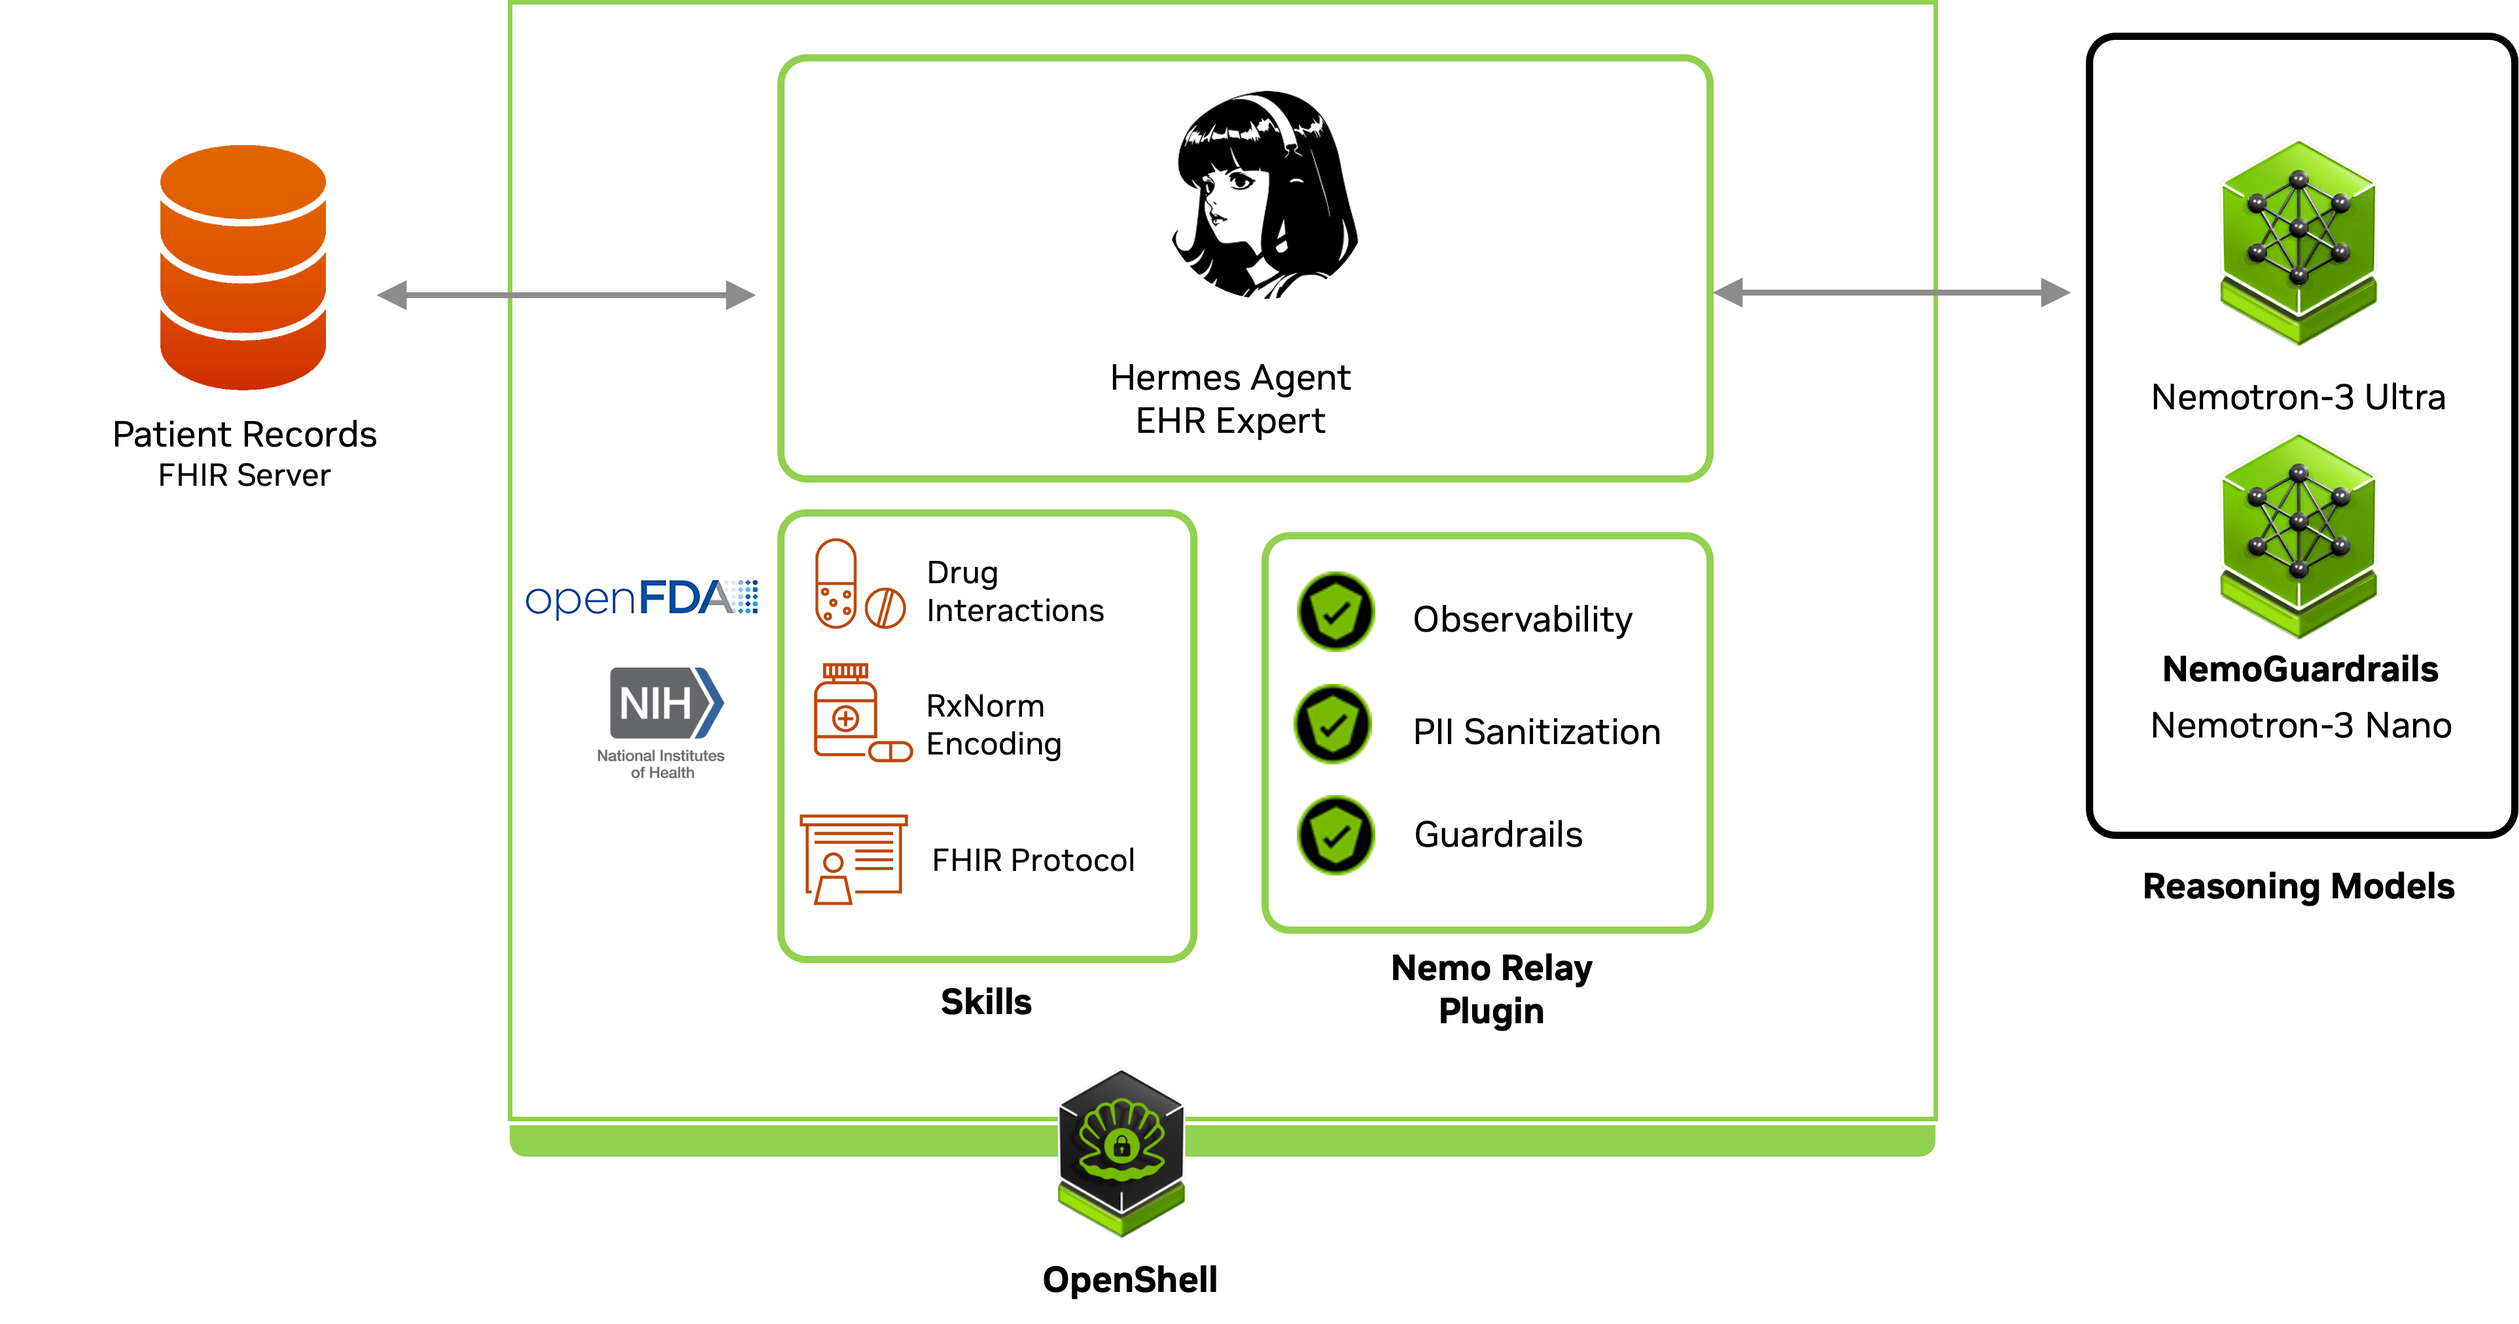
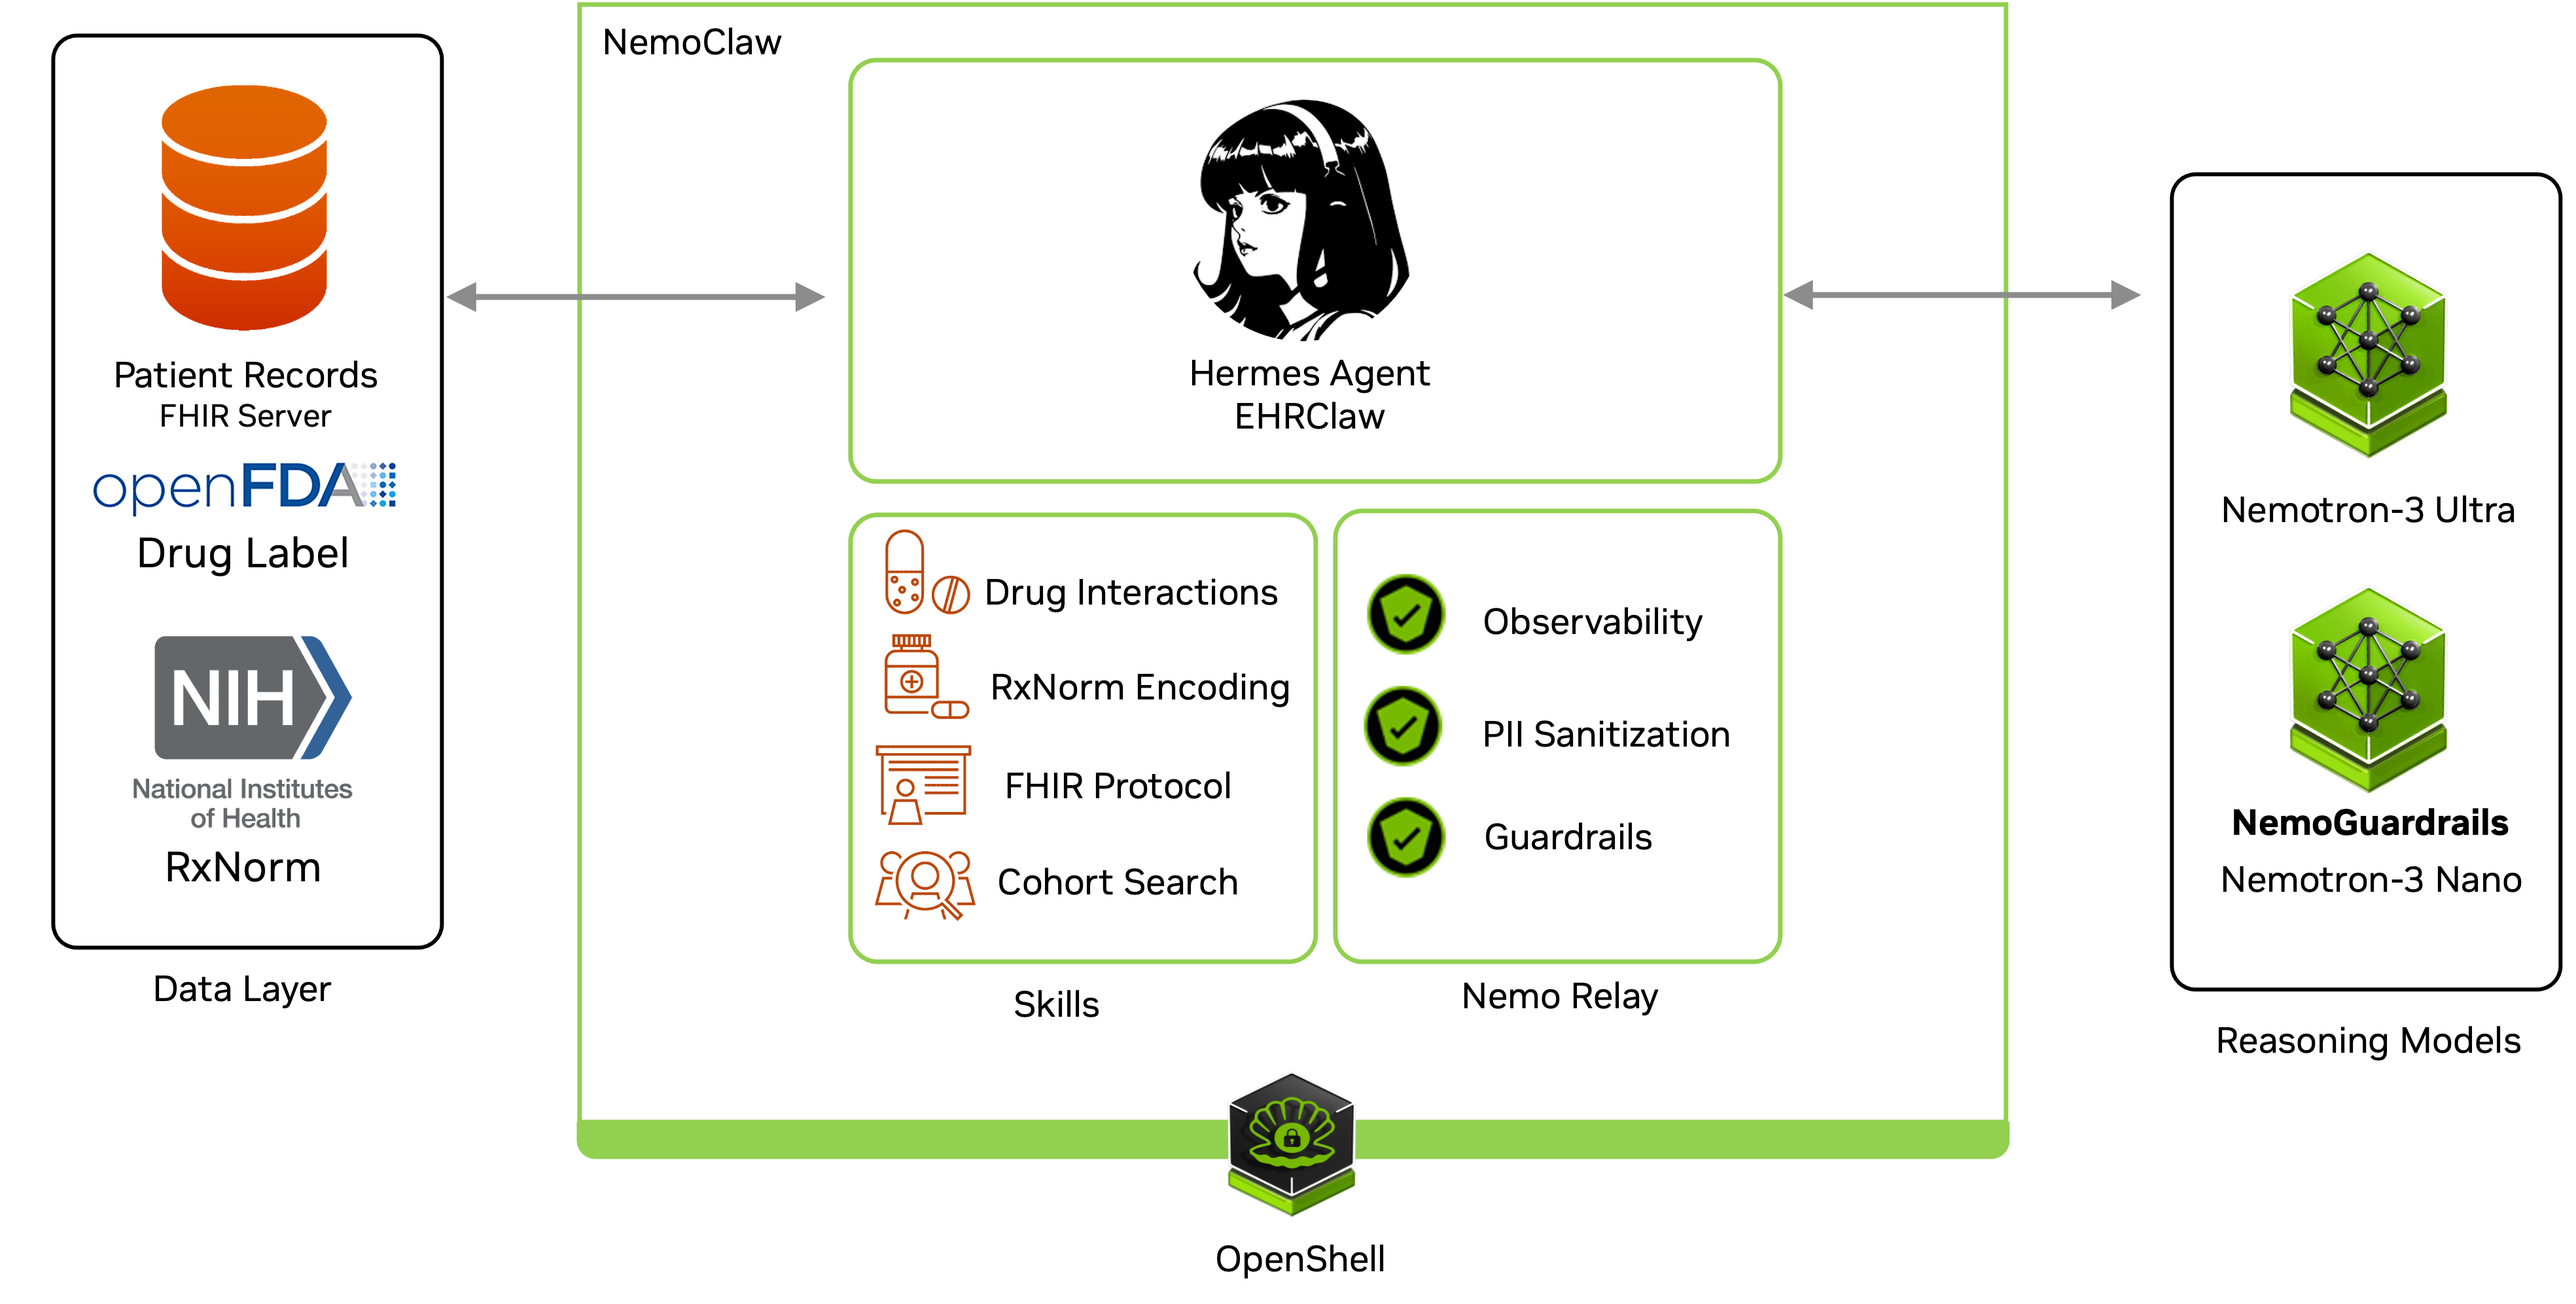
docs: add clinical-trial-cohort-prescreener skill documentation

diff --git a/agents/ehr-expert/skills/clinical-trial-cohort-prescreener/SKILL.md b/agents/ehr-expert/skills/clinical-trial-cohort-prescreener/SKILL.md
@@ -1,0 +1,352 @@
+---
+name: clinical-trial-cohort-prescreener
+description: Prescreen patients in the connected FHIR dataset against one clinical trial's inclusion and exclusion criteria. Use when the user supplies clinical trial text or eligibility criteria and asks which patients are potential matches, or requests clinical-trial eligibility prescreening or cohort screening. Produces potential-match results with evidence, never a definitive eligibility decision.
+---
+
+# Clinical Trial Cohort Prescreener
+
+## When to Use
+This is a clinical-trial pre-screening workflow.
+
+Use this skill when the user provides the text of one clinical trial and asks which patients in the connected FHIR dataset may match it.
+
+Never describe a patient as definitively eligible.
+Use the terms:
+
+- potential match
+- possible match requiring more data
+- not a match based on available evidence
+
+Final eligibility must be confirmed by the trial research team.
+
+## Expected Input
+Required:
+- The trial's inclusion and exclusion criteria.
+
+Optional:
+- The clinical trial text.
+- A cohort description.
+- A maximum number of patients to screen.
+- An as-of date.
+
+When no as-of date is supplied, use all data currently available through the connected FHIR server.
+
+
+When no cohort limit is supplied:
+1. Derive a coarse candidate cohort using the trial's target condition, age range, and administrative sex where possible.
+2. Screen at most 100 candidate patients.
+3. Clearly state that the results cover a limited candidate cohort, not the entire FHIR population.
+
+## Additional skills required
+
+This skill does not query the FHIR server itself. Use the **`fhir-data-access`**
+skill for all reads, which covers:
+
+1. Searching or enumerating patients (including coarse filtering by
+   `birthdate`, `gender`, and condition `code`).
+2. Searching FHIR resources by patient.
+3. Reading individual FHIR resources when additional evidence is needed.
+
+Relevant resource types may include:
+- Patient
+- Condition
+- Observation
+- MedicationRequest
+- MedicationStatement
+- Procedure
+- Encounter
+- DiagnosticReport
+- CarePlan
+
+## Criteria
+
+Attempt direct evaluation of criteria involving:
+
+- Age.
+- Administrative sex.
+- Presence or absence of coded conditions.
+- Numeric laboratory values.
+- Laboratory date windows.
+- Presence of medications.
+- Presence of procedures.
+- Encounter history.
+- Simple date relationships.
+- Explicit minimum or maximum thresholds.
+
+Only compare numeric values when the patient result and trial criterion
+use the same unit, or when an available tool performs a reliable unit
+conversion.
+
+Mark the criterion as UNKNOWN when units cannot be compared safely.
+
+## Procedure
+
+### 1. Parse the trial
+
+Extract:
+
+- Trial title or identifier, when present.
+- Target disease or condition.
+- Minimum and maximum age.
+- Administrative sex restrictions.
+- Inclusion criteria.
+- Exclusion criteria.
+
+Split the criteria into atomic statements.
+
+Assign each criterion a stable identifier:
+
+- I1, I2, I3 for inclusion criteria.
+- E1, E2, E3 for exclusion criteria.
+
+Preserve the original criterion wording.
+
+### 2. Classify each criterion
+
+For every criterion, assign:
+
+- Type: inclusion or exclusion.
+- Domain: demographic, condition, observation, medication,
+  procedure, encounter, temporal, or clinical judgment.
+- Evaluation method:
+  - DIRECT
+  - UNKNOWN_WITH_CURRENT_DATA
+  - REQUIRES_REVIEW
+
+### 3. Build a coarse candidate cohort
+
+Before retrieving full patient charts, apply the cheapest reliable
+filters available.
+
+Prefer:
+
+1. Target condition.
+2. Age range.
+3. Administrative sex.
+4. Other simple coded conditions.
+
+Do not exclude a patient through approximate semantic matching alone.
+
+If a FHIR code or display is ambiguous, retain the patient and mark
+the relevant criterion for review.
+
+Report:
+
+- Number of patients considered.
+- Number remaining after coarse filtering.
+- Any limit applied to the candidate cohort.
+
+### 4. Evaluate each candidate
+
+Retrieve only the resources relevant to the criteria.
+
+For every criterion, produce one of these results:
+
+#### PASS
+
+Direct patient evidence supports eligibility for this criterion.
+
+Examples:
+
+- The inclusion criterion requires age 18 or older and the patient is 54.
+- The required diagnosis is present.
+- A laboratory result is within the specified range and time window.
+
+#### FAIL
+
+Direct patient evidence rules the patient out.
+
+Examples:
+
+- The patient is younger than the minimum age.
+- A required inclusion diagnosis is not present when the available data directly establishes a different diagnosis.
+- The patient has a documented exclusion condition.
+- A laboratory value falls outside an explicit permitted range.
+
+#### NO_EVIDENCE_OF_EXCLUSION
+
+Use only for exclusion criteria when no matching evidence was found.
+
+This does not prove that the exclusion is absent.
+
+Always use wording such as:
+
+"No evidence of this exclusion was found in the available FHIR record."
+
+Never rewrite this as:
+
+"The patient does not have this condition."
+
+#### UNKNOWN
+
+Use when:
+
+- Required information is missing.
+- Record coverage is insufficient.
+- The relevant resource was not found.
+- Units are incompatible.
+- The criterion cannot be resolved from available structured data.
+- The medication or condition timeline is incomplete.
+
+#### REVIEW
+
+Use when evidence exists but interpreting it requires clinical or
+protocol judgment.
+
+### 5. Attach evidence
+Every PASS or FAIL must reference supporting FHIR evidence.
+
+Include, when available:
+
+- Resource type.
+- Resource ID.
+- Clinical date.
+- Code and display.
+- Numeric value and unit.
+- Medication or procedure name.
+- A short explanation of why the evidence is relevant.
+
+Do not cite an entire chart when one or two resources support the result.
+
+UNKNOWN and NO_EVIDENCE_OF_EXCLUSION results should describe what was
+searched and what information was unavailable.
+
+### 6. Determine the overall prescreen result
+
+Assign one overall result.
+
+#### POTENTIAL_MATCH
+
+Use when:
+
+- No criterion is a definite FAIL.
+- All essential inclusion criteria are PASS.
+- Any unresolved exclusion criteria are explicitly reported as
+  NO_EVIDENCE_OF_EXCLUSION, UNKNOWN, or REVIEW.
+
+#### POSSIBLE_MATCH_NEEDS_DATA
+
+Use when:
+
+- No criterion is a definite FAIL.
+- One or more essential inclusion criteria are UNKNOWN or REVIEW.
+
+Explain exactly what additional information would resolve the case.
+
+#### NOT_A_MATCH
+
+Use when:
+
+- At least one inclusion criterion is a definite FAIL.
+- Or at least one exclusion criterion is directly present and therefore
+  produces a FAIL.
+
+List the blocking criteria.
+
+Never use the overall result ELIGIBLE.
+
+### 7. Rank the results
+
+Rank patients in this order:
+
+1. POTENTIAL_MATCH.
+2. POSSIBLE_MATCH_NEEDS_DATA.
+3. NOT_A_MATCH.
+
+Within POTENTIAL_MATCH, rank by:
+
+1. Fewest UNKNOWN criteria.
+2. Fewest REVIEW criteria.
+3. Greatest number of directly supported PASS results.
+4. Most recent supporting evidence.
+
+Do not generate an arbitrary eligibility probability.
+
+### 8. Verify before responding
+
+Before presenting the results, check:
+
+- Every trial criterion appears in the criterion matrix.
+- Every PASS and FAIL has direct FHIR evidence.
+- No FHIR resource was invented.
+- No unsupported unit conversion was performed.
+- No missing record was treated as proof of absence.
+- Inclusion and exclusion logic was not reversed.
+- The patient counts reconcile.
+- The overall result follows the rules above.
+- The wording says potential match, not eligible.
+
+## Output Format
+
+Use this structure:
+
+# Clinical Trial Cohort Prescreen
+
+## Trial
+
+- Title:
+- Identifier:
+- Target condition:
+- Trial text supplied by user:
+- Criteria parsed:
+- Criteria requiring manual interpretation:
+
+## Cohort
+
+- Patients initially considered:
+- Patients remaining after coarse filtering:
+- Patients fully screened:
+- Cohort limit:
+- FHIR data cutoff:
+
+## Summary
+- Potential matches:
+- Possible matches needing data:
+- Not a match:
+- Screening errors:
+
+## Potential Matches
+
+### Patient: Patient/{id}
+
+**Overall result:** POTENTIAL_MATCH
+
+**Summary:** One or two sentences explaining the result.
+
+| Criterion | Type | Result | Evidence | Explanation |
+|---|---|---|---|---|
+| I1 | Inclusion | PASS | Patient/{id} | Patient is within the required age range. |
+| I2 | Inclusion | PASS | Condition/{id} | Required condition is documented. |
+| E1 | Exclusion | NO_EVIDENCE_OF_EXCLUSION | Search performed | No matching condition was found in the available record. |
+| E2 | Exclusion | REVIEW | Observation/{id} | The trial uses an undefined clinical term. |
+
+**Unknown or review items:**
+
+- List unresolved criteria.
+- State what information would resolve each item.
+
+**Key supporting resources:**
+
+- ResourceType/id — date — relevance.
+
+## Possible Matches Needing Data
+
+Use the same structure, emphasizing missing information.
+
+## Excluded Summary
+For patients classified as NOT_A_MATCH, provide a compact table:
+
+| Patient | Blocking criterion | Evidence | Reason |
+|---|---|---|---|
+
+Avoid producing a full criterion matrix for every excluded patient
+unless the user requests it.
+
+## Limitations
+
+Always state:
+
+- This is automated pre-screening against structured FHIR data.
+- Missing information may change the result.
+- No patient has been confirmed eligible.
+- Trial staff must review the official protocol and source records.

diff --git a/agents/ehr-expert/skills/fhir-data-access/SKILL.md b/agents/ehr-expert/skills/fhir-data-access/SKILL.md
@@ -55,6 +55,29 @@ curl -s 'http://host.openshell.internal:8081/fhir/Encounter?patient=<patientId>'
 | `_include` | Include referenced resources | `_include=MedicationRequest:patient` |
 | `category` / `code` | Filter clinical resources | `category=laboratory` |
 | `status` | Filter by status | `status=completed` |
+| `birthdate` | Filter patients by date of birth (use `ge`/`le` prefixes for a range) | `birthdate=ge1960-01-01&birthdate=le2007-01-01` |
+| `gender` | Filter patients by administrative sex | `gender=male` |
+
+## Demographic and coded filtering
+
+FHIR has no `age` search parameter — translate an age range into a `birthdate`
+window (older bound = earlier date). For example, "18 to 65 as of today" becomes
+`birthdate=ge<today-65y>&birthdate=le<today-18y>`.
+
+```bash
+# Patients 18–65, female (coarse cohort filter)
+curl -s 'http://host.openshell.internal:8081/fhir/Patient?gender=female&birthdate=ge1960-01-01&birthdate=le2007-01-01&_count=100'
+
+# Patients with a coded condition (token = system|code, not free text)
+curl -s 'http://host.openshell.internal:8081/fhir/Condition?code=http://snomed.info/sct|44054006'
+
+# Combine with _summary=count to size a cohort before fetching bodies
+curl -s 'http://host.openshell.internal:8081/fhir/Condition?code=http://snomed.info/sct|44054006&_summary=count'
+```
+
+`Condition?code=` matches a coded diagnosis, so you need the code (e.g. a SNOMED
+CT code), not a free-text name. Resolve the term to a code first, or search
+broadly and filter the returned `code.coding` client-side.
 
 ## Resource type guide
 
@@ -63,6 +86,8 @@ curl -s 'http://host.openshell.internal:8081/fhir/Encounter?patient=<patientId>'
 | Demographics | `Patient` |
 | Medications (prescribed) | `MedicationRequest` |
 | Medications (administered) | `MedicationAdministration` |
+| Medications (patient-reported / statement) | `MedicationStatement` |
+| Care plans | `CarePlan` |
 | Labs, vitals, measurements | `Observation` |
 | Diagnoses / problems | `Condition` |
 | Visits | `Encounter` |
